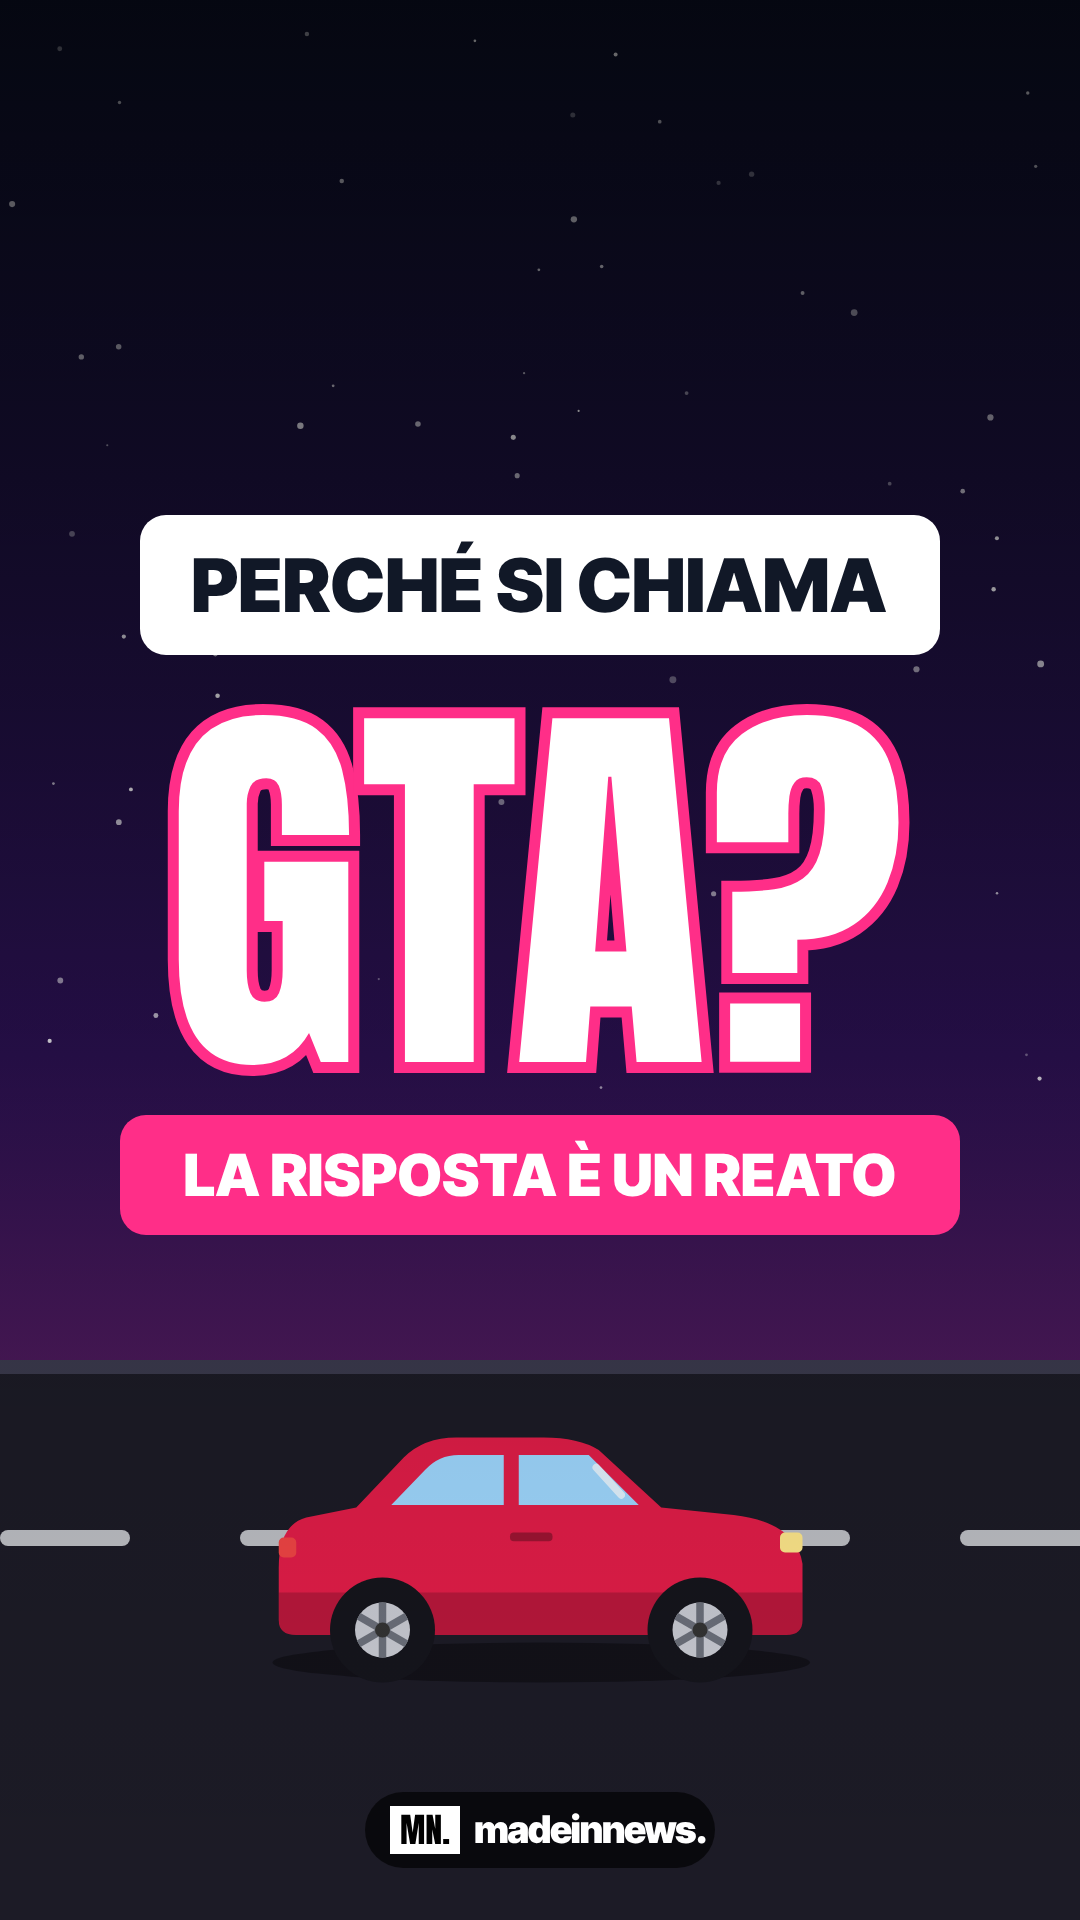
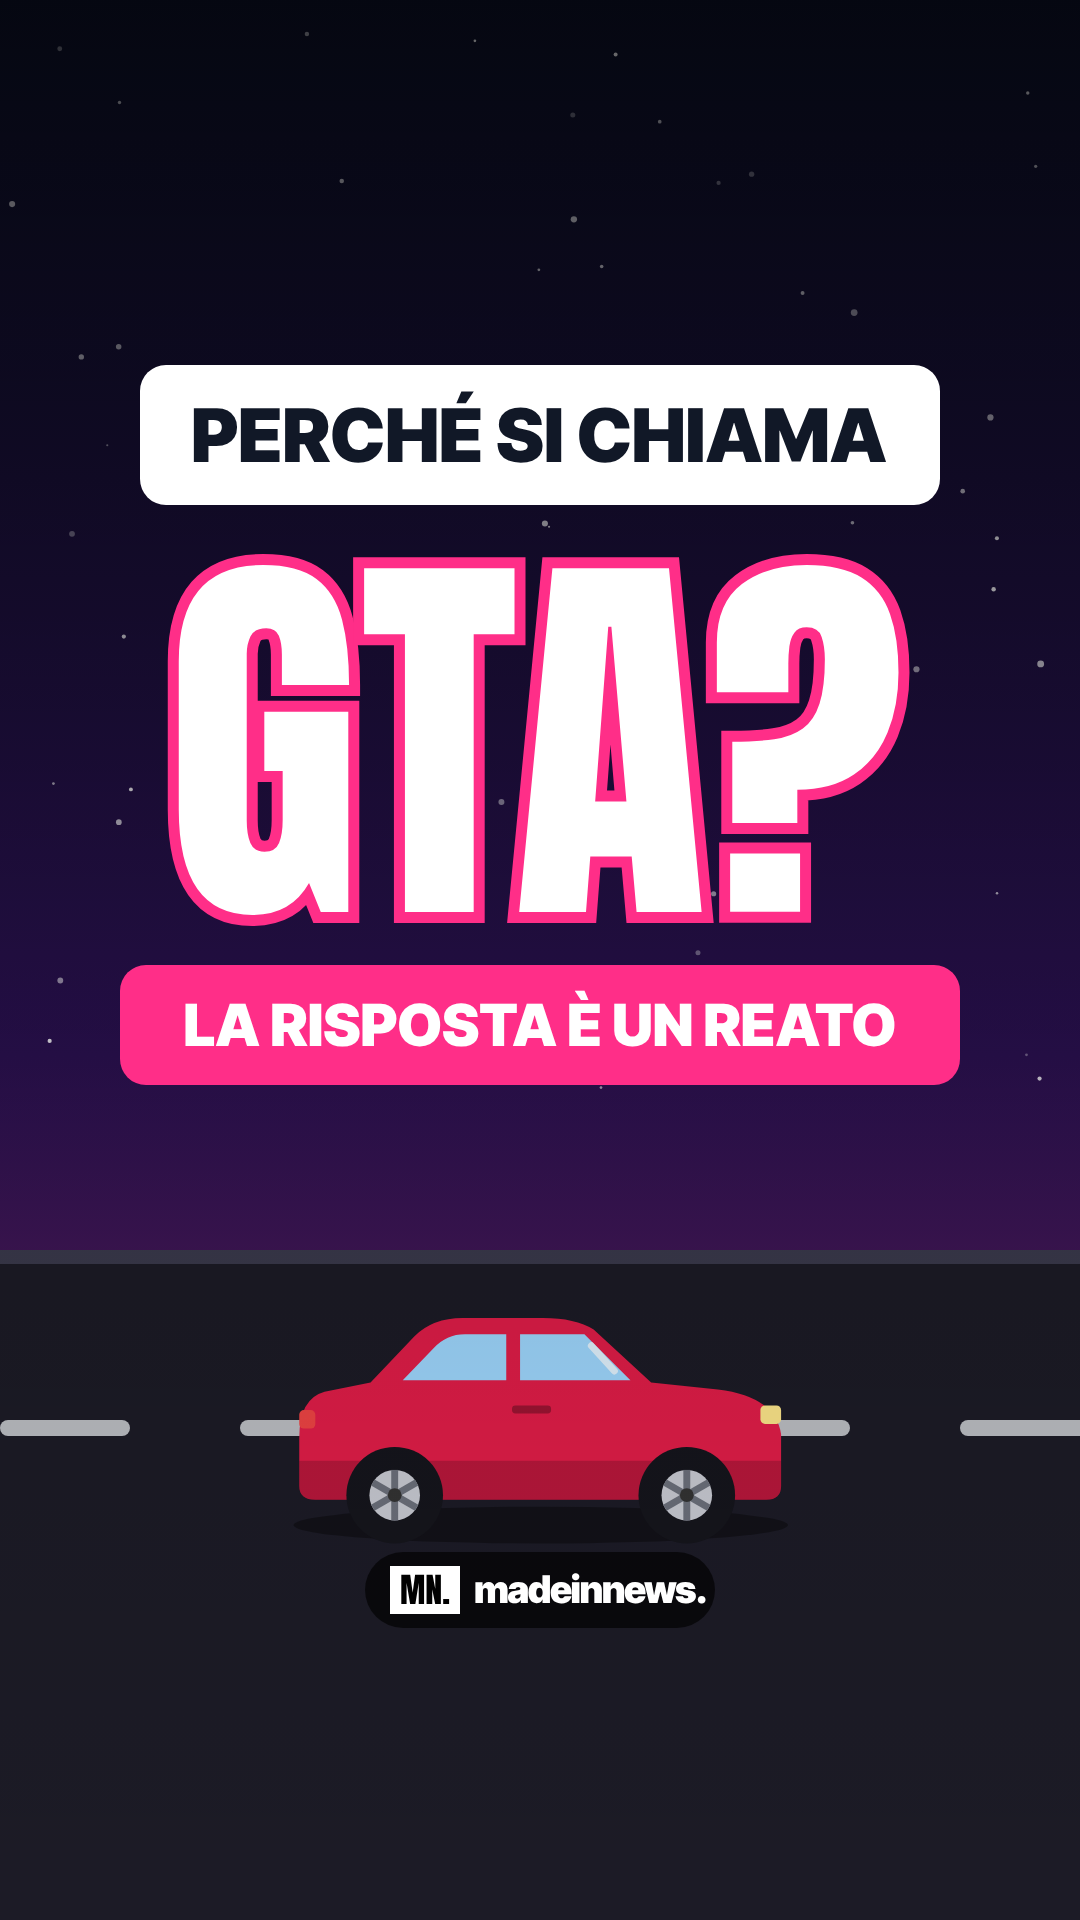
Copertina GTA: tutto dentro l'area 4:5
Claude-Session: https://claude.ai/code/session_01RiLp1FWEa9A5i6rpLf5r8e

diff --git a/engine/cover_gta.js b/engine/cover_gta.js
@@ -53,11 +53,11 @@ const chase=(t0,dur)=>{ // red car + police along road loop: y=1010 lane, then u
 
 const bx=(y,w,h,fill,inner)=>`<g class="bx"><rect x="${540-w/2}" y="${y}" width="${w}" height="${h}" rx="26" fill="${fill}"/>${inner}</g>`;
 const svg=`${sky('zs0',[[0,'#0b1026'],[.55,'#2a1050'],[.8,'#5b1d5e'],[1,'#1c1b26']])}${stars(70,1100)}
- ${skyline(3,1360,'#24184a','#ffd36a',4)}${skyline(11,1360,'#160f30','#ffb347',2)}${road(1360)}
- <g transform="translate(535,1570) scale(1.25)">${car('#e11d48',900,false)}</g>
+ ${skyline(3,1250,'#24184a','#ffd36a',4)}${skyline(11,1250,'#160f30','#ffb347',2)}${road(1250)}
+ <g transform="translate(535,1440) scale(1.15)">${car('#e11d48',900,false)}</g>
  <rect width="1080" height="1920" fill="url(#zfade)"/><defs><linearGradient id="zfade" x1="0" y1="0" x2="0" y2="1"><stop offset="0" stop-color="#000" stop-opacity=".55"/><stop offset=".55" stop-color="#000" stop-opacity=".15"/><stop offset="1" stop-color="#000" stop-opacity="0"/></linearGradient></defs>
- ${bx(515,800,140,'#fff',B(540,610,74,'#111827','PERCHÉ SI CHIAMA'))}
+ <g transform="translate(0,-150)">${bx(515,800,140,'#fff',B(540,610,74,'#111827','PERCHÉ SI CHIAMA'))}
  <g class="bx"><rect x="0" y="700" width="1080" height="380" fill="none"/><text x="540" y="1060" text-anchor="middle" class="anton" font-size="400" fill="#fff" stroke="#ff2e88" stroke-width="22" paint-order="stroke">GTA?</text></g>
- ${bx(1115,840,120,'#ff2e88',B(540,1195,58,'#fff','LA RISPOSTA È UN REATO'))}
- <g transform="translate(540,1830)"><rect x="-175" y="-38" width="350" height="76" rx="38" fill="#000" opacity=".65"/><rect x="-150" y="-24" width="70" height="48" fill="#fff"/><text x="-115" y="14" text-anchor="middle" class="anton" font-size="34" fill="#000">MN.</text><text x="-66" y="13" font-family="Inter Tight" font-weight="900" font-size="38" fill="#fff" letter-spacing="-1.5">madeinnews.</text></g>`;
+ ${bx(1115,840,120,'#ff2e88',B(540,1195,58,'#fff','LA RISPOSTA È UN REATO'))}</g>
+ <g transform="translate(540,1590)"><rect x="-175" y="-38" width="350" height="76" rx="38" fill="#000" opacity=".65"/><rect x="-150" y="-24" width="70" height="48" fill="#fff"/><text x="-115" y="14" text-anchor="middle" class="anton" font-size="34" fill="#000">MN.</text><text x="-66" y="13" font-family="Inter Tight" font-weight="900" font-size="38" fill="#fff" letter-spacing="-1.5">madeinnews.</text></g>`;
 module.exports=svg;

diff --git a/REGOLE.md b/REGOLE.md
@@ -44,3 +44,4 @@
 - Controllare ogni anteprima con una griglia di centro prima di mandarla all'utente.
 - Le scritte dentro i box/riquadri devono essere SEMPRE centrate sia in orizzontale sia in verticale.
   Nel motore (explainer5.js) ogni riquadro va dentro <g class="bx"> (rect + text): la centratura viene calcolata in automatico sull'inchiostro reale del testo, e se il testo è troppo largo viene ristretto per stare nel box.
+- Copertine dei reel (1080x1920): logo e scritte sempre dentro l'area 4:5 centrale (y 285–1635), così si vedono nella griglia del profilo.
